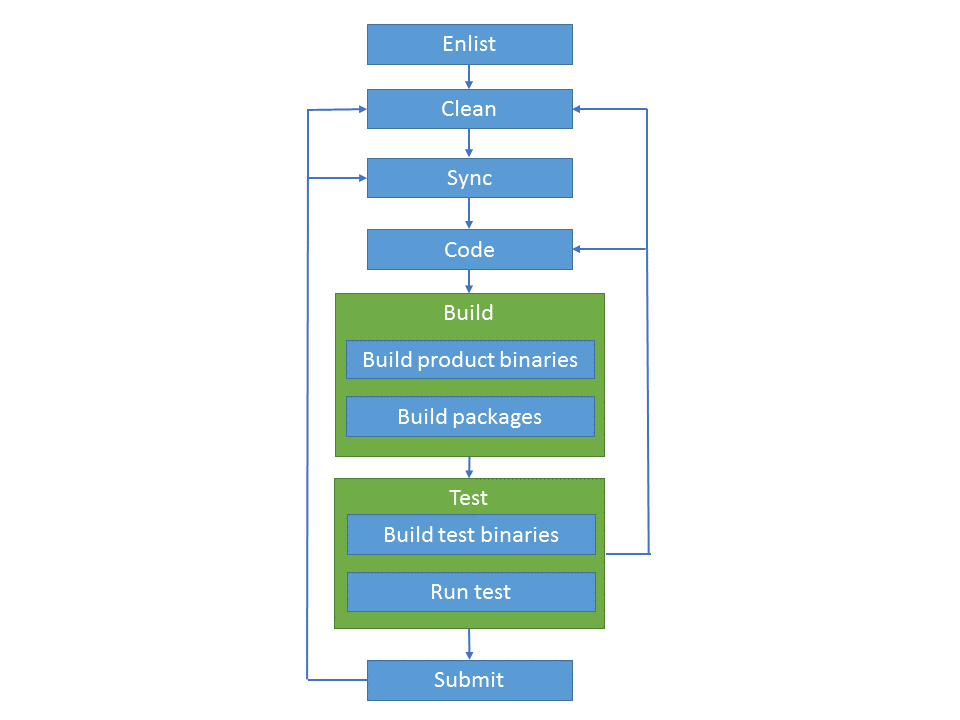
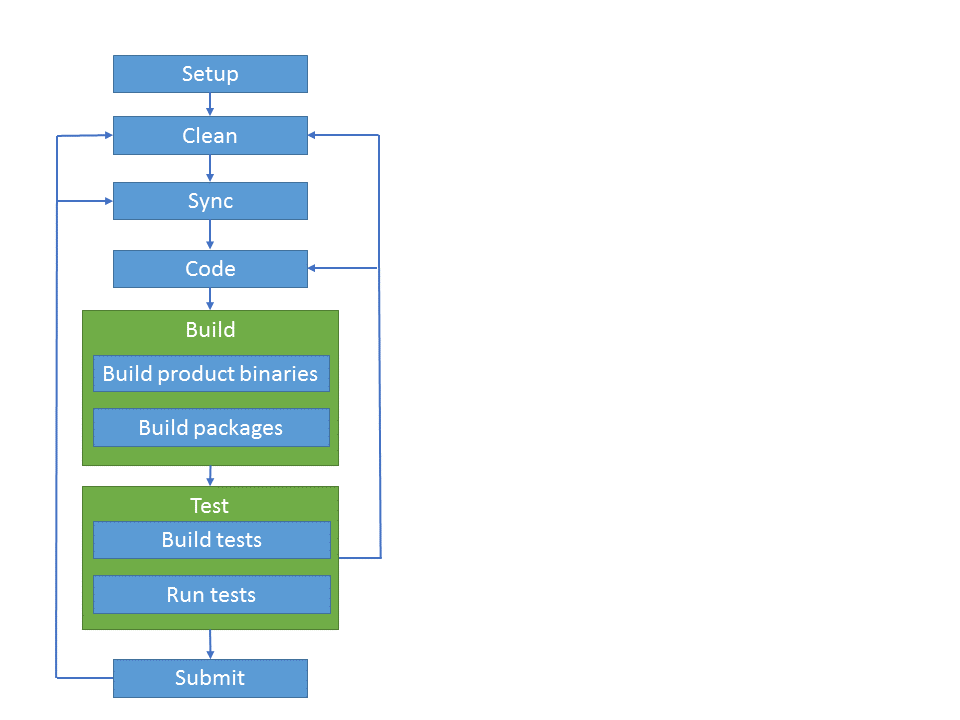
Change in some steps name, more clarification under the sync and the build step and some minor grammar fixes

diff --git a/Documentation/building/dev-workflow.md b/Documentation/building/dev-workflow.md
@@ -1,7 +1,7 @@
 Dev Workflow
 ===============
 
-The dev workflow describes the development process to follow when working in our repo. 
+The dev workflow describes the development process to follow when working in this repo. 
 It is divided into specific tasks that are fast, transparent and easy to understand.
 
 This provides flexibility as with discrete tasks people can iterate on a specific one without needing to run the full workflow, other processes can reuse the tasks as needed and anyone can put together the tasks as wanted to create a customized workflow.
@@ -9,21 +9,25 @@ This provides flexibility as with discrete tasks people can iterate on a specifi
 ## Process 
 ![Dev Workflow process](../images/dev-workflow.png)
 
-All the tasks (except enlist, code, submit) will have scripts located at the root of the repo, and will have usage help to better understand what they provide.
+All the tasks (except setup, code, submit) will have scripts located at the root of the repo, and will have usage help to better understand what they provide.
 In addition, we want to have an “easy button” script for running many or all of these tasks sequentially in a single command.
 
 ## Tasks
 
+**Setup**
+
+See instructions per platform in our [developer guide] (../building/developer-guide.md)
+
 **Clean**
 
-Cleans the local enlistment/environment, for example removing files not in the repository. 
+Cleans the local workspace, for example removing files not in the repository. 
 
 **Sync**
 
 The sync task gets the latest source history and packages in order to eliminate all the network traffic when we build. This way we are able to hit the network only when we are intentional about doing it and then be able to build even in offline mode. 
 It is important to note that Sync gets the source history by doing `git fetch --all -p –v`.
 
-It does not update branches or merge in changes to local files, giving devs flexibility in managing their Git repos. Devs will need to manually update their local files before restoring packages.
+It does not update branches or merge in changes to local files, giving devs flexibility in managing their Git repos. Devs will need to manually update their local files and when ready run `sync /p` to restore the packages.
 
 **Build product binaries**
 
@@ -31,16 +35,18 @@ Builds the product binaries without need of hitting the network to restore packa
 
 **Build packages**
 
-Builds the NuGet packages that are produced from the binaries that were built in the Build product binaries Step.
+Builds the NuGet packages that are produced from the binaries that were built in the Build product binaries step.
 
-**Build test binaries, Run test binaries**
+**Build tests and Run tests**
 
-Builds and runs the tests that are in the repository and in the near future queue work tests in Helix.
+Builds and runs the tests that are in the repository and in the near future queue validation builds in Helix.
 
 
 ## Current State
 
-Find in the root of the enlistment the following scripts:
+Find in the root of the workspace the following scripts:
 * clean.cmd/sh
 * sync.cmd/sh
-* build.cmd/sh => The dev workflow is not ON (or by default) right now. To give it a try and build without restoring the packages use `/p:RestoreDuringBuild=false`
+* build.cmd/sh => The dev workflow is not ON (or by default) right now. To give it a try and build use 
+  * `/p:RestoreDuringBuild=false` to avoid restoring the packages
+  * `/p:SkipTests=true ` to avoid building and running the tests

diff --git a/Documentation/project-docs/developer-guide.md b/Documentation/project-docs/developer-guide.md
@@ -4,13 +4,13 @@ Developer Guide
 This guide provides instructions (mostly as links) on how to build the repo and implement improvements. It will expand over time.
 
 Dev Workflow
-===============
+------------
 
-The [dev workflow] (../building/dev-workflow.md) describes the development process to follow when working in our repo. 
+The [dev workflow] (../building/dev-workflow.md) describes the development process to follow when working in this repo. 
 It is divided into specific tasks that are fast, transparent and easy to understand.
 
 Building the repository
-=======================
+-----------------------
 
 The CoreFX repo can be built from a regular, non-admin command prompt. The build produces multiple managed binaries that make up the CoreFX libraries and the accompanying tests. The repo can be built for the following platforms, using the provided instructions.
 
